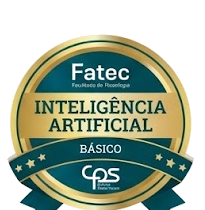
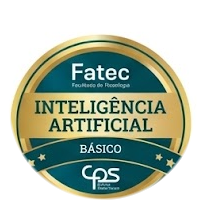
feat: adiciona badge e certificado completo do TOEIC, atualiza categorias e aplica bordas pretas de 3px e transparência focada às badges

diff --git a/src/components/Studies/Studies.jsx b/src/components/Studies/Studies.jsx
@@ -37,8 +37,8 @@ const certDescriptions = {
 
 const categoryLabels = {
   main: {
-    pt: '< Certificações de Indústria >',
-    en: '< Industry Certifications >',
+    pt: '< Principais Certificações >',
+    en: '< Main Certifications >',
   },
   academic: {
     pt: '< Certificações FATEC / CPS >',
@@ -239,11 +239,11 @@ export default function Studies({ lang }) {
                 {selectedCert.image ? (
                   <div
                     className={styles.modalBadgeImgClickable}
-                    onClick={() => setLightboxImage(selectedCert.image)}
+                    onClick={() => setLightboxImage(selectedCert.certificateImage || selectedCert.image)}
                     title="Clique para abrir em tela cheia"
                     style={{ cursor: 'zoom-in' }}
                   >
-                    <img src={selectedCert.image} alt={selectedCert.name} />
+                    <img src={selectedCert.certificateImage || selectedCert.image} alt={selectedCert.name} />
                   </div>
                 ) : (
                   <div className={styles.modalBadgePlaceholder}>
@@ -277,7 +277,7 @@ export default function Studies({ lang }) {
                 
                 {selectedCert.image && (
                   <button
-                    onClick={() => setLightboxImage(selectedCert.image)}
+                    onClick={() => setLightboxImage(selectedCert.certificateImage || selectedCert.image)}
                     className={styles.modalBtnSec}
                     type="button"
                   >

diff --git a/src/components/Studies/Studies.module.css b/src/components/Studies/Studies.module.css
@@ -220,12 +220,12 @@
   max-width: 95%;
   max-height: 95%;
   object-fit: contain;
-  filter: grayscale(8%) contrast(98%);
+  filter: grayscale(8%) contrast(98%) drop-shadow(3px 0 0 #000) drop-shadow(-3px 0 0 #000) drop-shadow(0 3px 0 #000) drop-shadow(0 -3px 0 #000);
   transition: all var(--transition-fast);
 }
 
 .badgeSelector:hover .badgeImg {
-  filter: grayscale(0%) contrast(110%) drop-shadow(0 8px 20px rgba(67, 123, 242, 0.45));
+  filter: grayscale(0%) contrast(110%) drop-shadow(3px 0 0 #000) drop-shadow(-3px 0 0 #000) drop-shadow(0 3px 0 #000) drop-shadow(0 -3px 0 #000) drop-shadow(0 0 15px rgba(67, 123, 242, 0.7));
 }
 
 .badgePlaceholder {

diff --git a/src/data/studies.js b/src/data/studies.js
@@ -55,7 +55,8 @@ export const certificates = [
     year: 2025,
     status: 'concluido',
     verifyUrl: null,
-    image: null,
+    image: '/badge-toeic.png',
+    certificateImage: '/cert-toeic.jpg',
     category: 'main',
   },
   {
